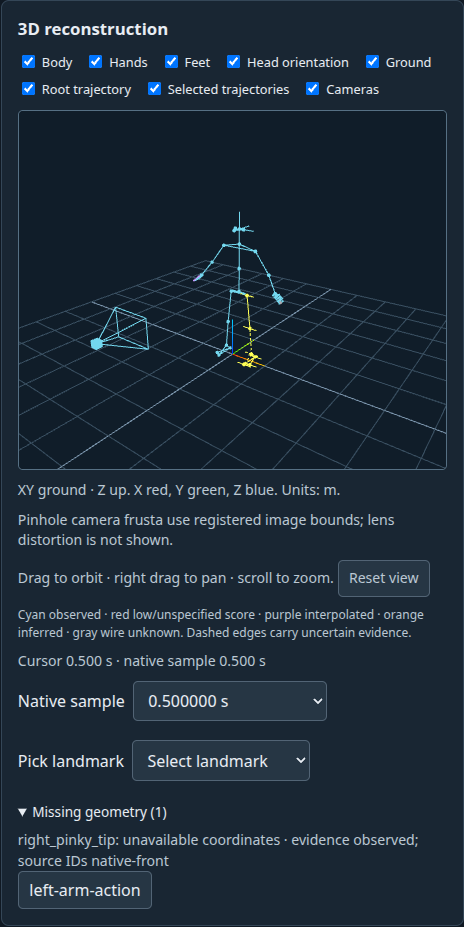
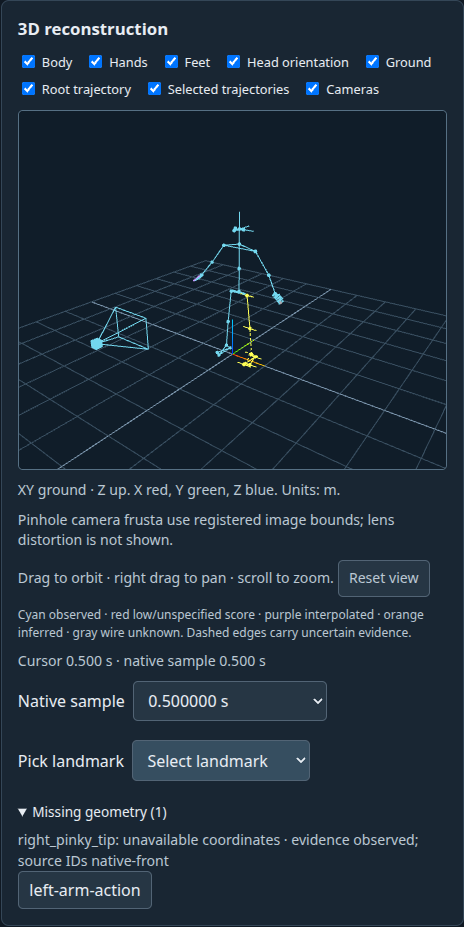
docs(web): refresh combined inspection validation evidence

Changed region(s): [[0.2716, 0.7853, 0.6638, 0.8457]]

diff --git a/docs/evidence/issue-45/README.md b/docs/evidence/issue-45/README.md
@@ -16,7 +16,7 @@ npm run build
 npm run test:browser
 ```
 
-The four browser tests exercise axis identity/handedness, calibrated camera
+The four 3D browser tests exercise axis identity/handedness, calibrated camera
 placement, all hand edges (40 minus the edge to the missing tip), all 10 foot
 edges, layer toggles against actual rendered pixels, selected paths, ray picking,
 landmark selection, native cursor/timeline/inspector synchronization, missing-region text,
@@ -36,11 +36,13 @@ Intentional limits: bounded native trajectory page (256 rows / two seconds),
 16 displayed cameras, no off-grid pose interpolation, pinhole frusta without lens
 distortion, no fitted mesh. Limits and missing inputs remain visible in the panel.
 
-Local validation: 13 web unit tests, 4 browser tests, 19 focused API tests,
-581 Python tests (6 capability suites deselected by the repository defaults),
-web/portable-contract type checks, build, Ruff and mypy passed. The Vite build
+Local validation after integration reconciliation: 18 web unit tests, 8 browser
+tests (4 3D and 4 ground), 21 focused API tests, web/portable-contract type checks,
+build, Ruff and mypy passed. The Vite build
 reports the existing default chunk-size warning for the renderer bundle.
 
-The suite owns its Vite server and refuses to reuse unrelated running servers.
-This revision was reproduced locally with `TKD_BROWSER_PORT=5185` because another
-worktree occupied the default port. CI uses the suite-owned default port.
+Each browser project owns its Vite server and refuses to reuse unrelated running
+servers. This revision was reproduced locally with `TKD_BROWSER_PORT=5185` and
+`GROUND_PORT=5286`; ground evidence used `/tmp/issue45-ground-browser-evidence`.
+CI uses the project-owned default ports. Integration reconciliation preserves the
+ground suite and its Playwright version and includes it in normal browser validation.

diff --git a/web/README.md b/web/README.md
@@ -42,6 +42,8 @@ The browser suite captures `test-results/**/rendered-panel.png`; CI retains it
 as the `web-browser-evidence` artifact. Compact recorded evidence is in
 [docs/evidence/issue-45](../docs/evidence/issue-45/README.md).
 
-The browser suite always launches its own Vite server with a strict port. If
-another worktree uses 5173, run `TKD_BROWSER_PORT=5185 npm run test:browser`
-(or choose another free port); an unrelated server is never reused as evidence.
+The browser projects run both the ground and 3D suites, each owning a Vite server
+with a strict port. If another worktree uses 5173 or 5186, run
+`TKD_BROWSER_PORT=5185 GROUND_PORT=5286 npm run test:browser` (or choose other free
+ports); an unrelated server is never reused as evidence. Ground evidence and
+custom browser settings retain `GROUND_EVIDENCE_DIR` and `CHROMIUM_PATH`.
